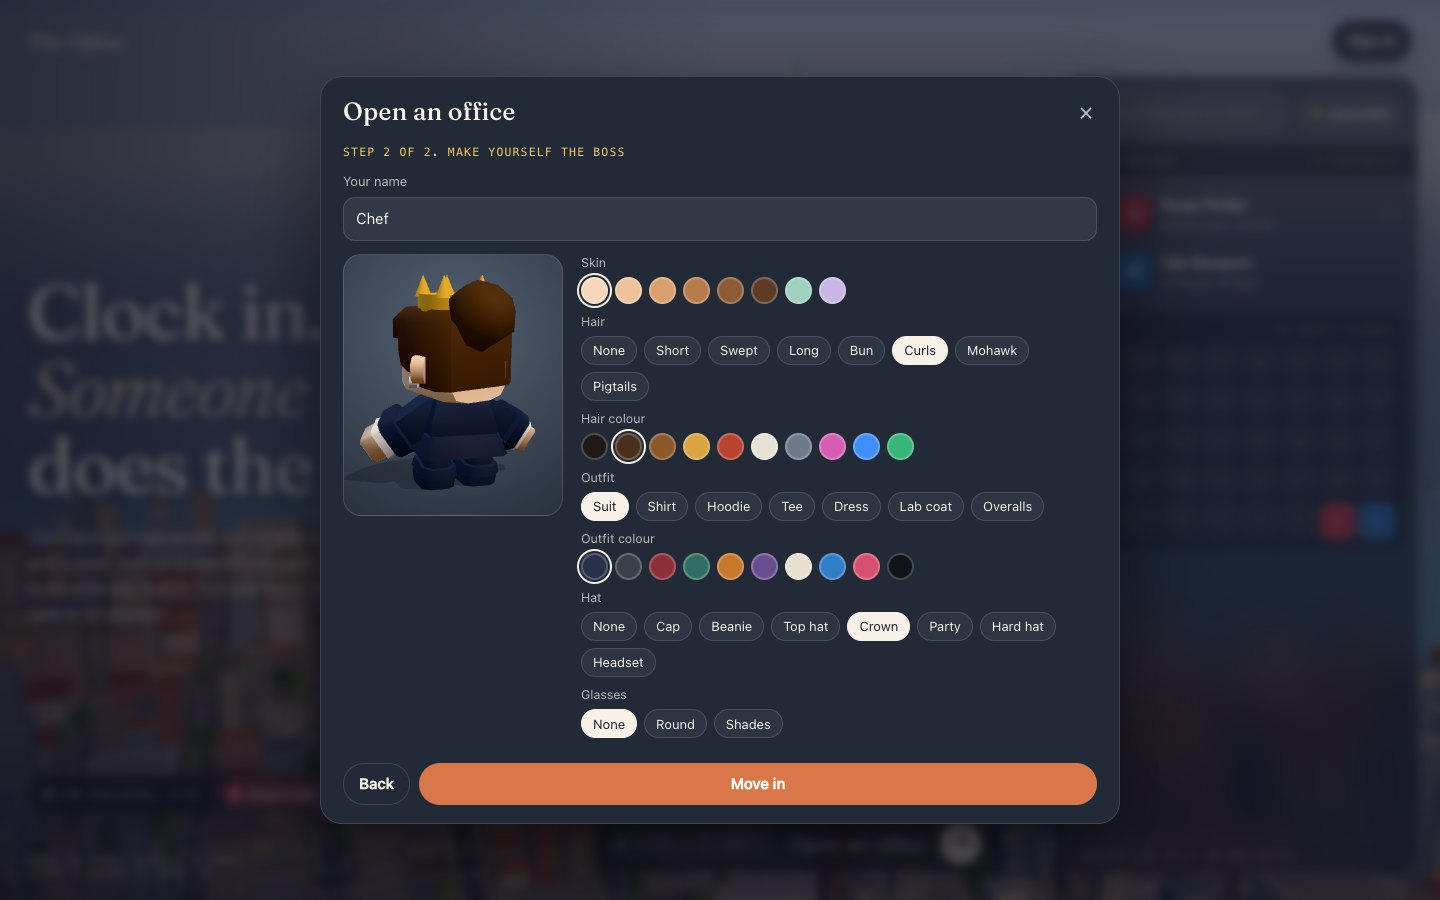
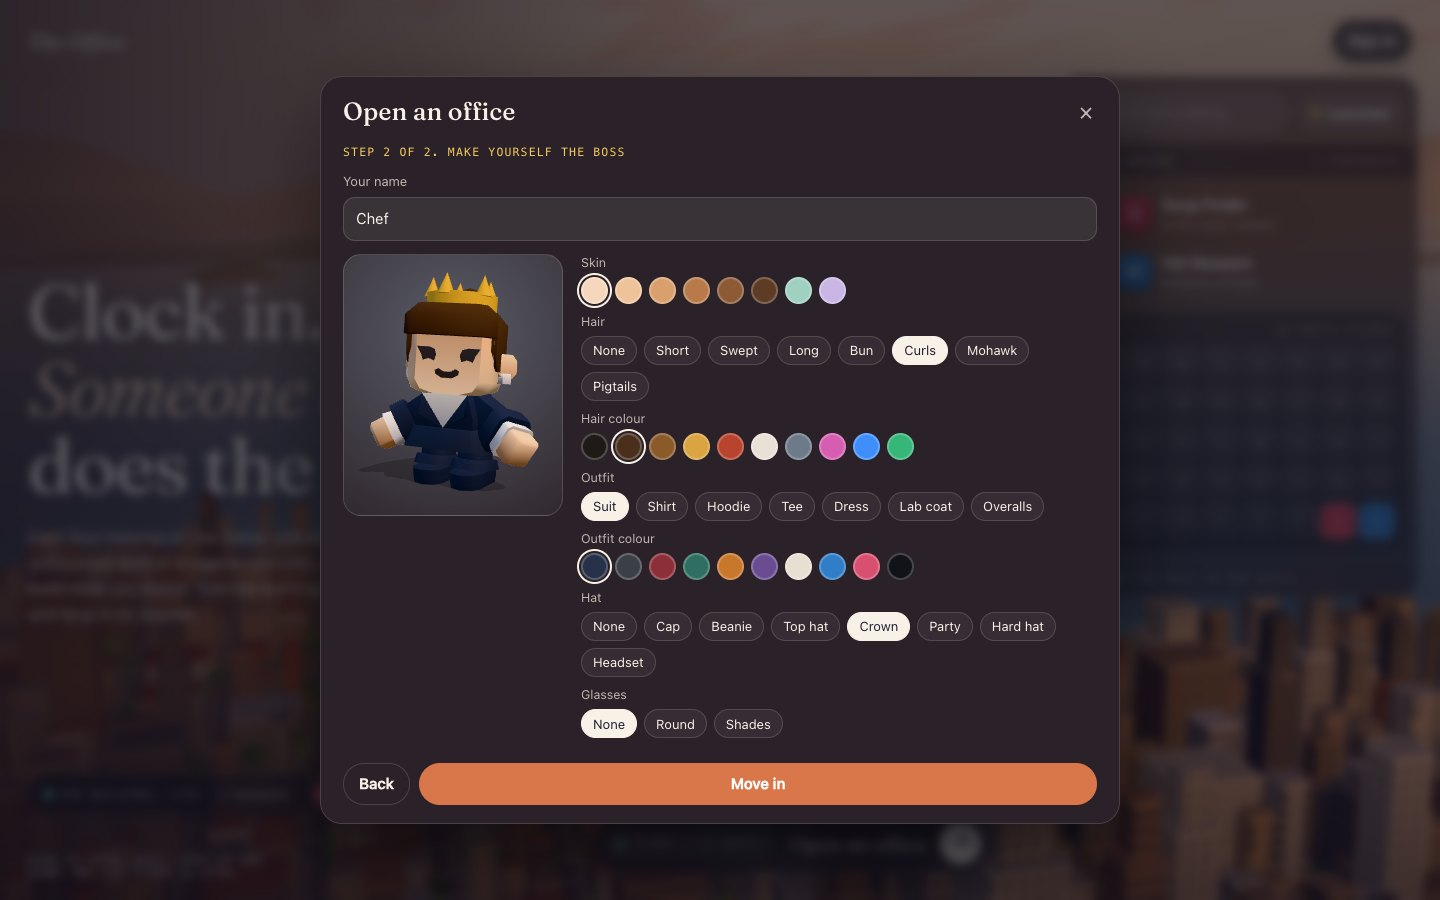
Calmer tower terraces and balcony rails, a stronger scrim behind the headline, ultra screenshots

diff --git a/public/js/lobby-scene.js b/public/js/lobby-scene.js
@@ -470,7 +470,7 @@ function makeCity(density) {
   const balGeo = new THREE.BoxGeometry(1, 1, 1); balGeo.translate(0, 0.5, 0);
   const balMesh = new THREE.InstancedMesh(balGeo, new THREE.MeshStandardMaterial({ color: '#f1e9dc', roughness: 0.9 }), Math.max(1, balconies.length));
   balconies.forEach((b, i) => { m.makeScale(b[3], 0.1, b[4]); m.setPosition(b[0], b[1], b[2]); balMesh.setMatrixAt(i, m); });
-  const railMesh = new THREE.InstancedMesh(balGeo, new THREE.MeshStandardMaterial({ color: '#4c5560', roughness: 0.6 }), Math.max(1, balconies.length));
+  const railMesh = new THREE.InstancedMesh(balGeo, new THREE.MeshStandardMaterial({ color: '#8d8176', roughness: 0.7 }), Math.max(1, balconies.length));
   balconies.forEach((b, i) => { const [, , , w, d, fx, fz] = b; m.makeScale(fz ? w : 0.04, 0.42, fz ? 0.04 : d); m.setPosition(b[0] + fx * 0.2, b[1] + 0.1, b[2] + fz * 0.2); railMesh.setMatrixAt(i, m); });
   balMesh.frustumCulled = railMesh.frustumCulled = false; balMesh.castShadow = true; balMesh.count = railMesh.count = balconies.length;
 
@@ -678,12 +678,12 @@ export function makeTower(floorCount, { stub = false, env = null } = {}) {
   slabs.frustumCulled = false; slabs.castShadow = true; slabs.receiveShadow = true;
   group.add(slabs);
 
-  // Planted terraces on every fourth floor, stacked in the same two bays on each face: a rhythm the eye can read, not scatter.
+  // Planted terraces on every eighth floor, stacked in the same two bays on each face: a rhythm the eye can read, not scatter.
   const balGeo = new THREE.BoxGeometry(1, 1, 1); balGeo.translate(0, 0.5, 0);
   const terraces = [];
-  for (let i = 2; i < floorCount; i += 4) for (const [fx, fz] of (i - 2) % 8 ? [[1, 0], [-1, 0]] : [[0, 1], [0, -1]]) for (const off of [-half * 0.75, half * 0.75]) terraces.push([i, fx, fz, off]);
+  for (let i = 3; i < floorCount; i += 8) for (const [fx, fz] of [[1, 0], [-1, 0], [0, 1], [0, -1]]) for (const off of [-half * 0.75, half * 0.75]) terraces.push([i, fx, fz, off]);
   const nBal = Math.max(1, terraces.length);
-  const balSlab = new THREE.InstancedMesh(balGeo, stone, nBal), balRail = new THREE.InstancedMesh(balGeo, new THREE.MeshStandardMaterial({ color: '#d9dcd8', roughness: 0.25, metalness: 0.2, transparent: true, opacity: 0.4, envMap: env }), nBal), balPlant = new THREE.InstancedMesh(balGeo, green, nBal);
+  const balSlab = new THREE.InstancedMesh(balGeo, stone, nBal), balRail = new THREE.InstancedMesh(balGeo, new THREE.MeshStandardMaterial({ color: '#b9b4a8', roughness: 0.3, metalness: 0.2, transparent: true, opacity: 0.25, envMap: env }), nBal), balPlant = new THREE.InstancedMesh(balGeo, green, nBal);
   terraces.forEach(([i, fx, fz, off], idx) => {
     const y = GROUND + i * FLOOR_H + 0.07;
     const w = fz ? 2.0 : 0.3, d = fz ? 0.3 : 2.0;

diff --git a/public/css/app.css b/public/css/app.css
@@ -86,7 +86,7 @@ h1, h2, h3 { font-family: var(--serif); font-weight: 500; margin: 0; }
 .topbar { position: absolute; top: 0; left: 0; right: 0; display: flex; justify-content: space-between; align-items: center; padding: max(20px, env(safe-area-inset-top)) 28px 0; pointer-events: none; }
 .topbar > * { pointer-events: auto; }
 .wordmark { font-family: var(--serif); font-size: 21px; font-style: italic; letter-spacing: .01em; text-shadow: 0 1px 14px rgba(10, 16, 30, .55); }
-.hero { position: absolute; left: 28px; top: 50%; transform: translateY(-50%); width: min(38vw, 520px); text-shadow: 0 2px 28px rgba(10, 16, 30, .55), 0 1px 3px rgba(10, 16, 30, .35); }
+.hero { position: absolute; left: 28px; top: 50%; transform: translateY(-50%); width: min(38vw, 520px); text-shadow: 0 2px 28px rgba(24, 12, 16, .65), 0 1px 3px rgba(24, 12, 16, .45); }
 .hero h1 { font-size: clamp(44px, 5.3vw, 80px); line-height: 1.01; font-weight: 400; letter-spacing: -.022em; }
 .hero h1 em { font-weight: 300; color: #ffe9c9; }
 .hero p { margin: 20px 0 0; font-size: 16.5px; line-height: 1.55; color: rgba(255, 247, 235, .9); max-width: 27em; }
@@ -120,7 +120,7 @@ h1, h2, h3 { font-family: var(--serif); font-weight: 500; margin: 0; }
 .pill-go { font-family: var(--serif); font-size: 20px; }
 .pill-arrow { width: 42px; height: 42px; border-radius: 50%; background: var(--ink); color: #1d1b2c; display: grid; place-items: center; font-size: 19px; }
 .hints { position: absolute; left: 28px; bottom: 22px; margin: 0; font: 10.5px var(--mono); letter-spacing: .12em; text-transform: uppercase; color: rgba(255, 247, 235, .86); text-shadow: 0 1px 8px rgba(10, 16, 30, .9); max-width: 250px; }
-body[data-page="lobby"] #ui::before { content: ''; position: absolute; inset: 0; pointer-events: none; background: linear-gradient(90deg, rgba(30, 18, 24, .66), rgba(30, 18, 24, .3) 30%, rgba(30, 18, 24, 0) 52%), linear-gradient(0deg, rgba(24, 16, 22, .42), rgba(24, 16, 22, 0) 24%); }
+body[data-page="lobby"] #ui::before { content: ''; position: absolute; inset: 0; pointer-events: none; background: linear-gradient(90deg, rgba(30, 18, 24, .72), rgba(30, 18, 24, .42) 30%, rgba(30, 18, 24, 0) 54%), linear-gradient(0deg, rgba(24, 16, 22, .42), rgba(24, 16, 22, 0) 24%); }
 .banner { position: absolute; top: 70px; left: 28px; margin: 0; padding: 8px 14px; border-radius: 999px; background: rgba(242, 189, 93, .2); border: 1px solid rgba(242, 189, 93, .5); }
 .floor-tip { position: fixed; top: 0; left: 0; padding: 6px 11px; border-radius: 9px; background: rgba(16, 22, 34, .88); font: 12px var(--mono); pointer-events: none !important; white-space: nowrap; z-index: 6; box-shadow: 0 6px 20px rgba(10, 16, 30, .3); }
 
